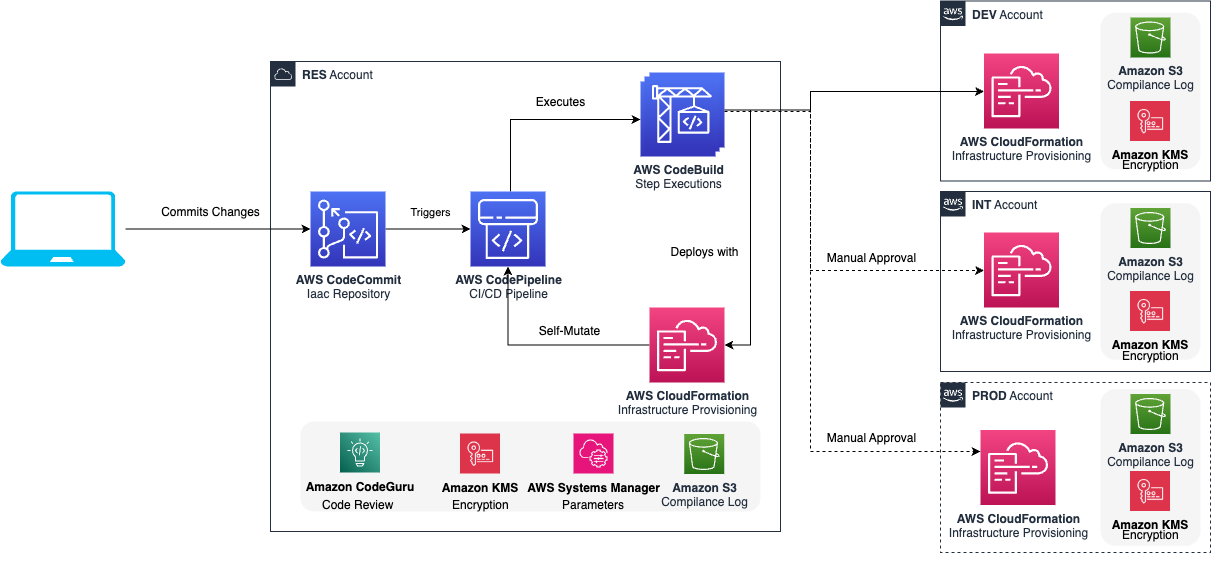
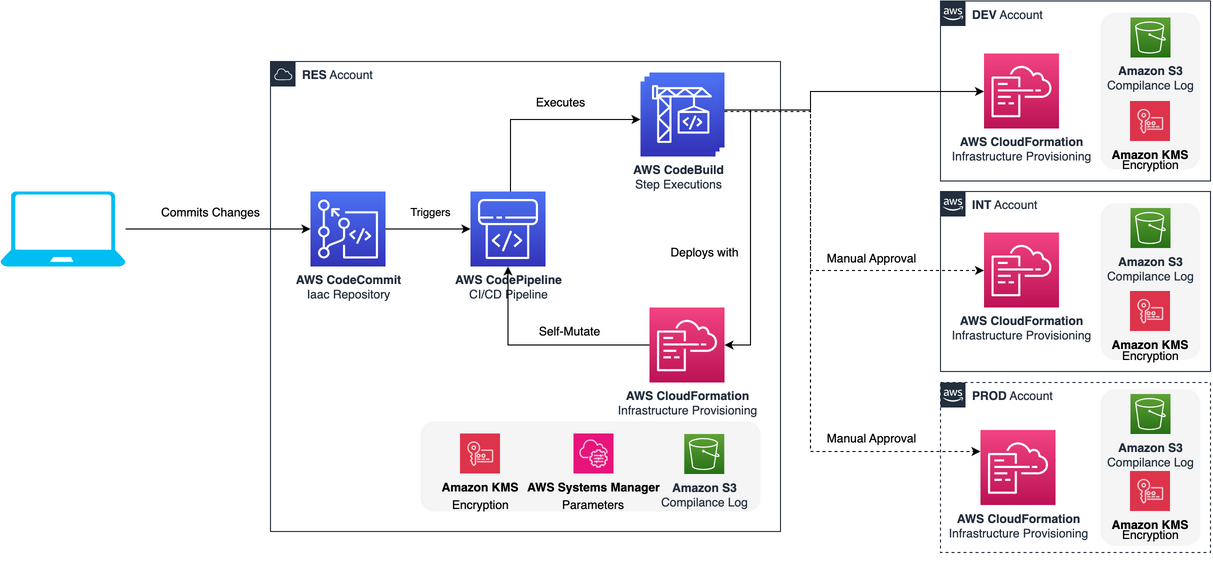
docs: drop the remaining Amazon CodeGuru references from the main line
The CodeGuru code went with Blueprint; docs and diagrams still showed it.

- diagrams: remove the CodeGuru icon (Infrastructure) and the Code Review
  step 2.a (Deployment Flow); re-export both PNGs
- security / CodeCommit guides: drop the CodeGuru notes
- overview: the diagram caveats no longer mention CodeGuru
- MIGRATION.md: one mapping row for the removed CodeGuru options, with the
  AWS lifecycle dates (CodeGuru Security end of support 2025-11-20;
  CodeGuru Reviewer stopped accepting new associations 2025-11-07)
- findings.json: the redraw the overview notes call "tracked separately"
  (it was not), the docs build mutating the root package.json, and the
  legacy-blueprint line still creating a Reviewer association by default

Left on purpose: .compatignore (projen compat needs it), docs/design
(decision history) and docs/content/legacy (documents the 0.x line).

diff --git a/MIGRATION.md b/MIGRATION.md
@@ -58,6 +58,7 @@ export default defineCICD({
 | stack names auto-prefixed by the stage (`DEV-myapp`) via `AppStage`                                                                                                                | you name stacks in `bin/` — full control; use `stageStackName(base, { stageFirst: true, uppercaseStage: true })` to reproduce Blueprint's name and update in place (see **Preserving already-deployed resources**)                                                                                                                                                                                                                                                                                                                                                                                                                                                                                                                                                                                                                                                                                                                                                                                                                                                                                                                                                                                                                                                                                                                                                                                                                                                                                                                                                                                                                                                            |
 | `ACCOUNT_<STAGE>` / `CDK_QUALIFIER` / `npm_package_config_*` env                                                                                                                   | fields in `cicd.config.ts` (env interpolation is still allowed)                                                                                                                                                                                                                                                                                                                                                                                                                                                                                                                                                                                                                                                                                                                                                                                                                                                                                                                                                                                                                                                                                                                                                                                                                                                                                                                                                                                                                                                                                                                                                                                                               |
 | `RepositorySource.codecommit()/github()/s3()`                                                                                                                                      | `Repository.codecommit()/github()/s3()`, plus `Repository.codestarConnection(name, connectionArn)` for GitHub via a CodeStar connection                                                                                                                                                                                                                                                                                                                                                                                                                                                                                                                                                                                                                                                                                                                                                                                                                                                                                                                                                                                                                                                                                                                                                                                                                                                                                                                                                                                                                                                                                                                                       |
+| `PipelineBlueprint.codeGuruScanThreshold(CodeGuruSeverityThreshold.*)`, `RepositorySource.codecommit({ enableCodeGuruReviewer })`, config `codeGuruReviewer` (default `true`)      | dropped, no Autopilot equivalent — AWS ended support for [Amazon CodeGuru Security](https://docs.aws.amazon.com/cli/latest/reference/codeguru-security/index.html) on 2025-11-20, and [Amazon CodeGuru Reviewer](https://docs.aws.amazon.com/codeguru/latest/reviewer-ug/codeguru-reviewer-availability-change.html) stopped accepting new repository associations on 2025-11-07. Build-stage scanning maps to `cdk-cicd security-scan` (Bandit/Semgrep/ShellCheck) and `cdk-cicd check-dependencies` (CVE scanning); pull-request review has no replacement                                                                                                                                                                                                                                                                                                                                                                                                                                                                                                                                                                                                                                                                                                                                                                                                                                                                                                                                                                                                                                                                                                                  |
 | `IResourceProvider` + `ResourceContext.instance()` singleton                                                                                                                       | same DI concept, de-singletoned and typed (`SupportResources`), lazily provisioned                                                                                                                                                                                                                                                                                                                                                                                                                                                                                                                                                                                                                                                                                                                                                                                                                                                                                                                                                                                                                                                                                                                                                                                                                                                                                                                                                                                                                                                                                                                                                                                            |
 | `ComplianceBucketProvider` / `ComplianceLogBucketStack` (`IComplianceBucket`) / `deploymentDefinition[stage].complianceLogBucketName`                                              | `complianceLogBucketName` field (`ResolvedCicdConfig`/`cicd.config.ts`), supported by all three engines and provisioned through `SupportResources.complianceLogBucket` whenever configured. Autopilot uses a plain CDK-managed SSE-S3 bucket by default; set `createComplianceLogBucket: false` during migration to reference the existing Blueprint bucket without asking CloudFormation to recreate it. An externally referenced bucket remains owner-managed, including same-account/same-Region placement, SSE-S3 encryption, disabled Object Lock and Requester Pays, TLS enforcement, public-access block, and its `logging.s3.amazonaws.com` delivery policy; a name-only CDK import cannot validate those live settings. Managed buckets retain/delete their generated policy with the bucket. Autopilot prevents the destination from logging to itself and scopes managed log delivery with `aws:SourceAccount` and `aws:SourceArn`. It deliberately does not deny `PutObject` requests that omit an encryption header: default SSE-S3 encrypts those objects, while such a deny would block S3 server-access-log delivery. Because S3 access logging cannot cross accounts or Regions, Autopilot rejects non-co-located application stages instead of applying Blueprint's bucket-name substitution convention. |
 | `VPCProvider` / `ManagedVPCStack` / `NoVPCStack` / `VPCFromLookUpStack` (`IVpcConfig`)                                                                                             | `vpc` field (`VpcConfig`, either `managedVpc` or `vpcId`) in `cicd.config.ts`, resolved into `SupportResources.vpcNetworking` (`CodePipelineEngine`) / applied directly via `CdkPipelinesEngine`'s `codeBuildDefaults`; attached to every CodeBuild project the pipeline creates (build, self-update, each per-stage deploy, the container-mode `BuildImage` project, and CDK Pipelines' own synth/self-mutation/asset-publishing projects), unlike Blueprint's per-stage VPC stack. Same `cidrBlock`/`subnetCidrMask`/`maxAzs`/`flowLogsBucketName`/`codeBuildVpcInterfaces` defaults and the `resolve:ssm:`-prefixed lookup convention; fixes Blueprint's `restrictDefaultSecurityGroup`/`allowAllOutbound` defect (`props.x \|\| true`, which forced both flags on even when a caller explicitly passed `false`)                                                                                                                                                                                                                                                                                                                                                                                                                                                                                                                                                                                                                                                                                                                                                                                                                                                           |

diff --git a/docs/content/overview/index.md b/docs/content/overview/index.md
@@ -35,9 +35,9 @@ Most of these features can be used independently of the CDK constructs, directly
 !!! note
 
     This diagram predates Autopilot (1.x) and still shows Blueprint (0.x) specifics — a CodeCommit-only
-    source, Amazon CodeGuru code review, and fixed `RES`/`DEV`/`INT`/`PROD` accounts. The pipeline shape
-    (source → build/synth → self-update → one deploy action per stage, gated by manual approval) still
-    holds; the account names, the CodeCommit-only source, and CodeGuru do not — see the stage list below.
+    source and fixed `RES`/`DEV`/`INT`/`PROD` accounts. The pipeline shape (source → build/synth →
+    self-update → one deploy action per stage, gated by manual approval) still holds; the account names
+    and the CodeCommit-only source do not — see the stage list below.
     Redrawing this diagram for Autopilot is tracked separately.
 
 The CI/CD process in the {{ project_name }} establishes the following:
@@ -59,11 +59,10 @@ The {{ project_name }} architecture is based on using DevOps services provided b
 !!! note
 
     Like the process-flow diagram above, this one predates Autopilot (1.x): it shows a CodeCommit-only
-    source with Amazon CodeGuru code review and a per-account compliance bucket/KMS key created
-    unconditionally. In Autopilot the source is a choice (CodeCommit, GitHub, S3, or any CodeStar
-    connection), there is no CodeGuru integration, and the compliance bucket/KMS encryption are opt-in
-    (`complianceLogBucketName` in `cicd.config.ts`). Redrawing this diagram for Autopilot is tracked
-    separately.
+    source and a per-account compliance bucket/KMS key created unconditionally. In Autopilot the source
+    is a choice (CodeCommit, GitHub, S3, or any CodeStar connection), and the compliance bucket/KMS
+    encryption are opt-in (`complianceLogBucketName` in `cicd.config.ts`). Redrawing this diagram for
+    Autopilot is tracked separately.
 
 You can read more about these elements in the [Developer Guide](../developer_guides/index.md).
 

diff --git a/docs/content/developer_guides/vcs_codecommit.md b/docs/content/developer_guides/vcs_codecommit.md
@@ -34,7 +34,7 @@ repository: Repository.codecommit('my-repo', 'main', { existing: true }),
 
 An imported repository must already exist at deploy time. A created one belongs to the pipeline stack and has no `DeletionPolicy`, so **deleting the pipeline stack deletes the repository and its history**. To keep the source independent of the pipeline, create the repository yourself and import it with `{ existing: true }` (`cdk-cicd init --existing`).
 
-`Repository.codecommit(...)` names the CodeCommit repository the pipeline reads from. Unlike Blueprint (0.x)'s `RepositorySource.codecommit(...)`, there is no `enableCodeGuruReviewer`/`enablePullRequestChecks` option: Amazon CodeGuru Reviewer pull-request automation is **not** part of Autopilot. If you relied on that, `cdk-cicd security-scan`/`cdk-cicd check` (Bandit, Semgrep, ShellCheck, dependency audit — see the [Security guide](./security.md)) run in the pipeline's CI build instead, but they are not PR-time checks against a CodeCommit pull request specifically.
+`Repository.codecommit(...)` names the CodeCommit repository the pipeline reads from. Unlike Blueprint (0.x)'s `RepositorySource.codecommit(...)`, there is no `enablePullRequestChecks` option: pull-request automation is **not** part of Autopilot. If you relied on it, `cdk-cicd security-scan`/`cdk-cicd check` (Bandit, Semgrep, ShellCheck, dependency audit — see the [Security guide](./security.md)) run in the pipeline's CI build instead, but they are not PR-time checks against a CodeCommit pull request specifically.
 
 ## Pushing to the repository
 

diff --git a/docs/content/developer_guides/security.md b/docs/content/developer_guides/security.md
@@ -13,14 +13,6 @@
 | [shellcheck](#shellcheck) | Static Security Code Scanner | Enabled | Analyses Shell Scripts | Scans the codebase for vulnerabilities. |
 | [Bandit](#bandit) | Static Security Code Scanner | Enabled | Analyses Python source code | Scans the codebase for vulnerabilities. |
 
-!!! note "Amazon CodeGuru"
-
-    Blueprint (0.x) included Amazon CodeGuru Reviewer (CodeCommit pull-request review) and Amazon
-    CodeGuru Security (build-stage SAST scanning). Neither is part of Autopilot — `cdk-cicd security-scan`
-    (Bandit/Semgrep/ShellCheck) and `cdk-cicd check-dependencies` (CVE scanning) are the Autopilot replacement
-    for the vulnerability-scanning half; there is no Autopilot replacement for CodeGuru's pull-request-review
-    automation specifically.
-
 ## Tools description
 
 ### AWS CDK Nag
